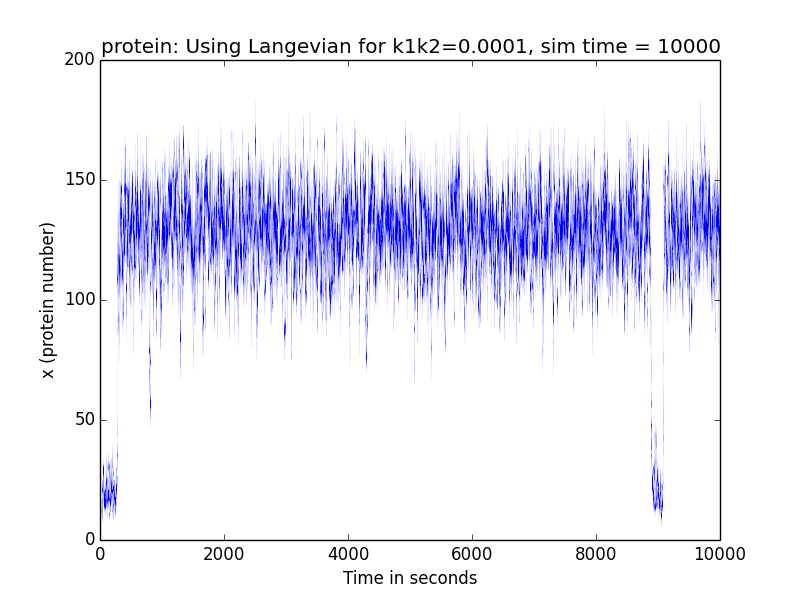
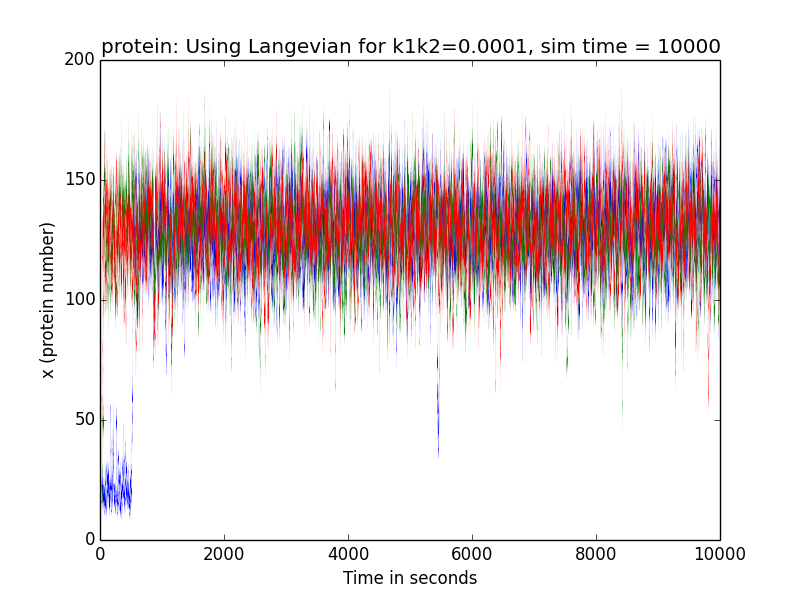
Using gnuplot to plot data. Not using cairo at all.
Former-commit-id: 3bbc9b6a9a915bc0fd87b51df92a5d4b110c161b
Former-commit-id: 371d06afd0fdd44eba76f0ca1e8dd788ef4308fc

diff --git a/RandomnessInBiology_Monsoon_2014/Assignment07/solve.py b/RandomnessInBiology_Monsoon_2014/Assignment07/solve.py
@@ -223,7 +223,7 @@ def main(problem = 1):
     gs = GeneticSwitch(k1k2=1e-4, init=0)
     print("++ Solving problem no {}".format(problem))
     if problem == 1:
-        gs.run(step = 0.01, stop = 10000, ntimes = 1)
+        gs.run(step = 0.01, stop = 10000, ntimes = 3)
         gs.plotTrajectories(save = True)
         gs.plotHistogram( save = True)
     elif problem == 2:
@@ -234,4 +234,4 @@ def main(problem = 1):
                 thresholdB = 125)
 
 if __name__ == '__main__':
-    main(2)
+    main(1)
